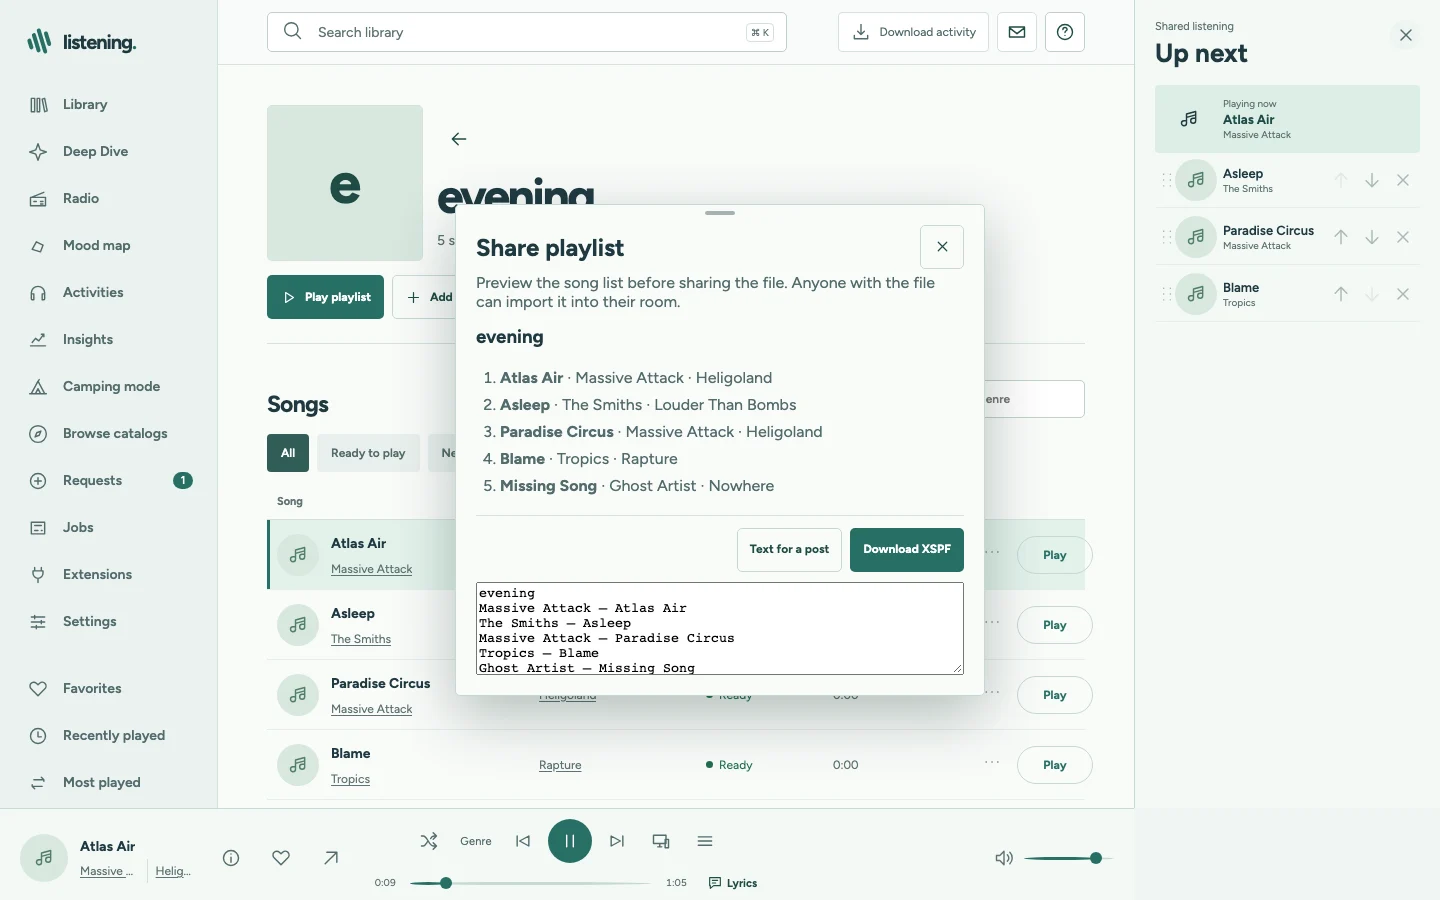
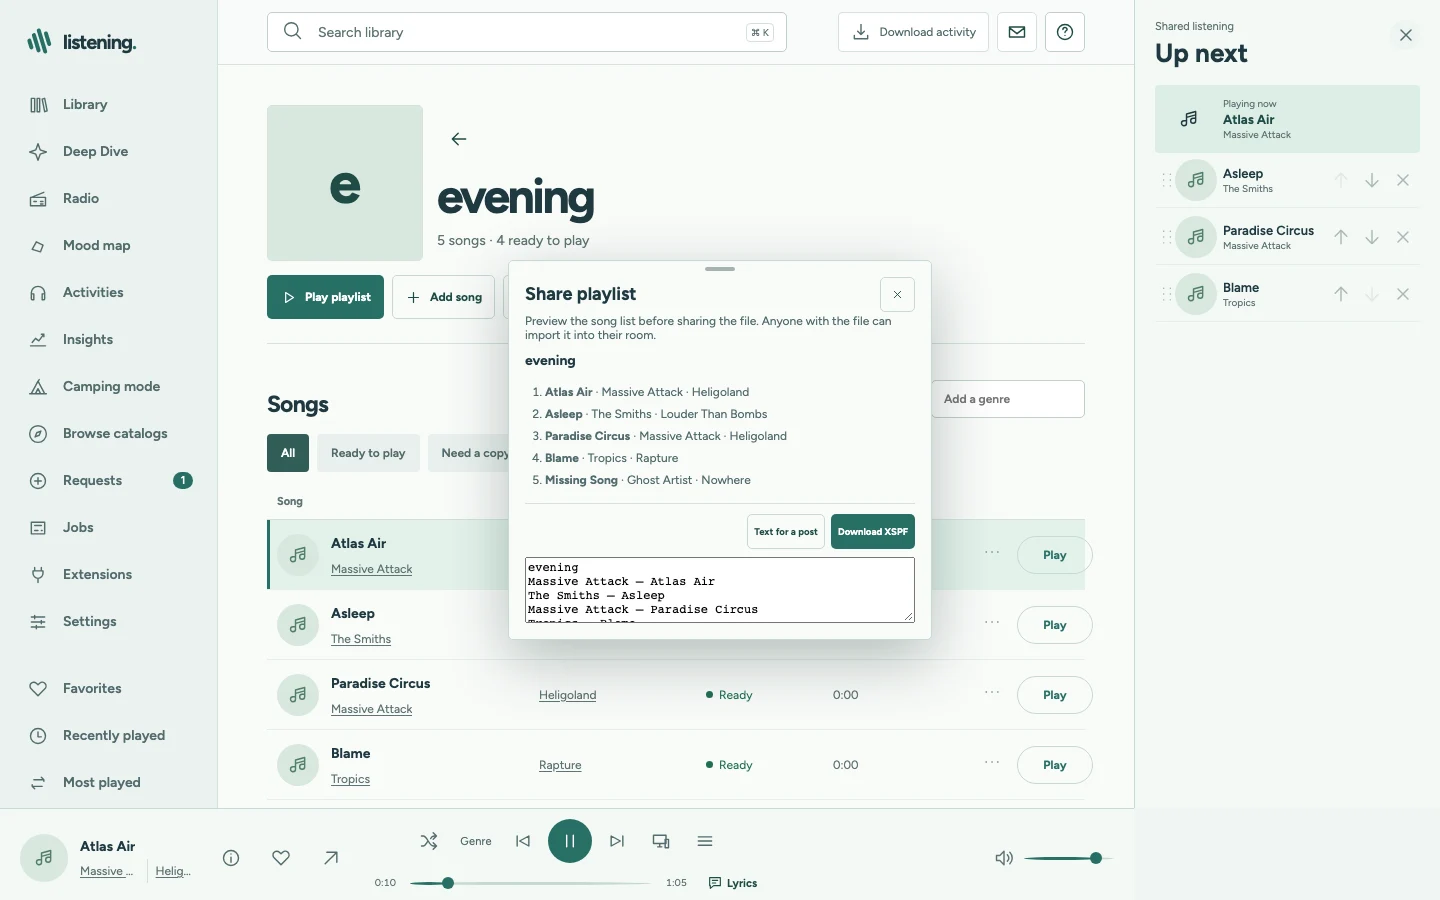
Reduce dialog sizes and tighten action spacing

Changed region(s): [[0.2812, 0.2178, 0.7188, 0.8089]]

diff --git a/frontend/react/src/styles.css b/frontend/react/src/styles.css
@@ -530,10 +530,9 @@ input[type=range] { height: 3px; accent-color: var(--accent); cursor: pointer; }
 .dialog-close { float: right; }
 
 .playlist-share-dialog {
-  width: min(530px, calc(100vw - 24px));
-  max-height: min(85dvh, 720px);
+  --dialog-width: 424px;
+  max-height: min(68dvh, 576px);
   overflow: auto;
-  padding: var(--space-9);
   border: 1px solid var(--line-strong);
   border-radius: var(--radius-lg);
   background: var(--panel);
@@ -543,15 +542,13 @@ input[type=range] { height: 3px; accent-color: var(--accent); cursor: pointer; }
 .playlist-share-tracks {
   max-height: 42dvh;
   overflow: auto;
-  padding-inline-start: var(--space-10);
+  padding-inline-start: var(--space-9);
   color: var(--muted);
 }
 .playlist-share-tracks li { padding-block: var(--space-2); }
 .playlist-share-dialog .primary-action { text-decoration: none; }
-.playlist-share-dialog [data-slot="dialog-title"], .playlist-share-dialog h3 { margin: 0; }
-.playlist-share-dialog [data-slot="dialog-description"] { margin: var(--space-2) 0 var(--space-7); color: var(--muted); }
-.playlist-share-dialog .format-dialog-header > button { width: 44px; padding: 0; }
-.playlist-share-dialog textarea { display: block; width: 100%; min-height: 7em; margin-top: var(--space-5); }
+.playlist-share-dialog h3 { margin: 0; font-size: var(--font-lg); }
+.playlist-share-dialog textarea { display: block; width: 100%; min-height: 5.5em; margin-top: var(--space-4); font-size: inherit; }
 
 .room-login {
   min-height: 100dvh;
@@ -1502,35 +1499,53 @@ input[type=range] { height: 3px; accent-color: var(--accent); cursor: pointer; }
 .lyrics-stage-line.is-current { opacity: 1; font-size: var(--font-lyrics-current); font-weight: var(--weight-heavy); }
 .lyrics-stage-note { margin: 0; font-size: var(--font-lg); opacity: .8; }
 
-.format-dialog { width: min(400px, calc(100vw - 28px)); padding: var(--space-9); background: var(--panel); border: 1px solid var(--line-strong); border-radius: var(--radius-lg); box-shadow: var(--shadow-dialog-md); }
-.format-dialog [data-slot="dialog-title"] { margin: 0; font-size: var(--font-4xl); font-weight: var(--weight-bold); overflow-wrap: anywhere; }
-.format-dialog > [data-slot="dialog-description"] { margin: var(--space-2) 0 var(--space-7); color: var(--muted); overflow-wrap: anywhere; }
+.format-dialog { --dialog-width: 320px; background: var(--panel); border: 1px solid var(--line-strong); border-radius: var(--radius-lg); box-shadow: var(--shadow-dialog-md); }
+:is(.format-dialog, .playlist-share-dialog) {
+  --dialog-control-size: 35px;
+  width: min(var(--dialog-width), calc((100vw - 28px) * .8));
+  padding: var(--space-8);
+  font-size: var(--font-md);
+}
+:is(.format-dialog, .playlist-share-dialog) [data-slot="dialog-title"] {
+  margin: 0; font-size: 18px; font-weight: var(--weight-bold); overflow-wrap: anywhere;
+}
+:is(.format-dialog, .playlist-share-dialog) > [data-slot="dialog-description"] {
+  margin: var(--space-1) 0 var(--space-5); color: var(--muted); overflow-wrap: anywhere;
+}
 .format-dialog-header { display: flex; align-items: center; gap: var(--space-4); }
 .format-dialog-header > button { flex: none; }
 :is(.format-dialog, .playlist-share-dialog) > .format-dialog-header { justify-content: space-between; }
-.format-dialog fieldset { margin: var(--space-6) 0; padding: 0; border: 0; }
-.format-dialog legend { margin-bottom: var(--space-3); color: var(--muted); }
-.format-dialog label { display: flex; align-items: center; gap: var(--space-5); min-height: 44px; cursor: pointer; }
+:is(.format-dialog, .playlist-share-dialog) > .format-dialog-header > button {
+  width: var(--dialog-control-size); min-width: var(--dialog-control-size);
+  height: var(--dialog-control-size); min-height: var(--dialog-control-size); padding: 0;
+}
+.format-dialog fieldset { margin: var(--space-5) 0; padding: 0; border: 0; }
+.format-dialog legend { margin-bottom: var(--space-2); color: var(--muted); }
+.format-dialog label { display: flex; align-items: center; gap: var(--space-4); min-height: var(--dialog-control-size); cursor: pointer; }
 .format-dialog input { accent-color: var(--accent); }
 .format-dialog .find-copy-sources { flex-wrap: nowrap; justify-content: space-between; font-size: var(--font-sm); }
 .dialog-actions {
-  display: flex; flex-wrap: wrap; justify-content: flex-end; gap: var(--space-4);
-  margin-block-start: var(--space-7); padding-block-start: var(--space-6); border-top: 1px solid var(--line);
+  display: flex; flex-wrap: wrap; justify-content: flex-end; gap: var(--space-3);
+  margin-block-start: var(--space-5); padding-block-start: var(--space-5); border-top: 1px solid var(--line);
 }
-.dialog-actions > .room-action { min-width: 0; text-align: center; }
-.copy-dialog { width: min(560px, calc(100vw - 28px)); }
+.copy-dialog { --dialog-width: 448px; }
 .copy-dialog > p[role] { margin: 0; }
 .copy-dialog > p[role="status"] { color: var(--muted); }
 .copy-dialog > p[role="alert"] { overflow-wrap: anywhere; }
 .copy-dialog .dialog-actions { display: grid; grid-auto-flow: column; grid-auto-columns: minmax(0, 1fr); }
-.copy-dialog .dialog-actions > .room-action { padding-inline: var(--space-4); }
+.copy-dialog .copy-picker-list .radio-result { min-height: 44px; padding-block: var(--space-4); }
+.copy-dialog .copy-picker-list strong { font-size: var(--font-sm); }
+.copy-dialog .copy-picker-list small { font-size: calc(var(--font-sm) * .8); }
+.copy-dialog .copy-picker-action .room-icon { width: 13px; height: 13px; }
 .copy-dialog [data-stop-search]:enabled { color: var(--danger); }
 @media (max-width: 580px) {
   .copy-dialog .dialog-actions { grid-auto-flow: row; grid-template-columns: repeat(2, minmax(0, 1fr)); }
 }
 @media (max-width: 420px) {
-  .format-dialog, .playlist-share-dialog { padding-inline: var(--space-8); }
   .dialog-actions { display: grid; grid-template-columns: repeat(2, minmax(0, 1fr)); }
+}
+@media (any-pointer: coarse), (max-width: 650px) {
+  :is(.format-dialog, .playlist-share-dialog) { --dialog-control-size: 44px; }
 }
 
 .nav-core, .nav-overflow { display: contents; }
@@ -2831,6 +2846,13 @@ a.room-action.connections-source, .connections-state button, .song-fallback-link
   font: inherit; font-size: var(--font-md); font-weight: var(--weight-bold); line-height: 1.25;
 }
 .room-action .room-icon, .room-select .room-icon { width: 17px; height: 17px; }
+.dialog-actions > .room-action:is(.primary-action, .quiet-button) {
+  min-width: 0; min-height: var(--dialog-control-size); gap: var(--space-3);
+  padding: var(--space-3); font-size: calc(var(--font-md) * .8); text-align: center;
+}
+:is(.dialog-actions, .format-dialog-header) > button .room-icon, .dialog-actions .room-action .room-icon {
+  width: 13px; height: 13px; flex: none;
+}
 .room-action[role="checkbox"][aria-checked="true"] { background: var(--accent-tint); border-color: var(--accent); }
 .room-select { display: grid; min-width: 0; gap: var(--space-2); }
 .room-select [data-slot="select-label"], .composer-form label {
@@ -3400,7 +3422,7 @@ a.room-action.connections-source, .connections-state button, .song-fallback-link
 .extension-detail-row:not([hidden]) td { padding-block: 0 var(--space-5); }
 .extension-config { display: grid; gap: var(--space-6); padding: var(--space-6); border: 1px solid var(--line); border-radius: var(--radius-md); background: var(--card); }
 .extension-config .settings-note { margin: 0; }
-.extension-update-dialog { width: min(480px, calc(100vw - 28px)); }
+.extension-update-dialog { --dialog-width: 384px; }
 .extension-update-changes { margin: var(--space-6) 0; }
 .extension-update-changes > div { padding-block: var(--space-3); border-block-start: 1px solid var(--line); }
 .extension-update-changes dt { font-weight: var(--weight-bold); overflow-wrap: anywhere; }
@@ -3447,7 +3469,7 @@ a.room-action.connections-source, .connections-state button, .song-fallback-link
 .extensions-stack .settings-actions .room-icon { width: 17px; height: 17px; }
 .extensions-stack :is(a, button, summary):focus-visible { outline: 2px solid var(--accent); outline-offset: 2px; }
 @media (pointer: coarse) { .extensions-stack .settings-actions .quiet-button { min-height: 44px; } }
-.format-dialog { max-height: calc(100dvh - 28px); overflow: auto; }
+.format-dialog { max-height: calc((100dvh - 28px) * .8); overflow: auto; }
 
 .activity-mixes {
   display: grid;

diff --git a/clients/android/app/src/main/java/music/listening/room/DiscoveryPick.kt b/clients/android/app/src/main/java/music/listening/room/DiscoveryPick.kt
@@ -3,6 +3,7 @@ package music.listening.room
 import android.app.Activity
 import android.app.Dialog
 import android.content.res.ColorStateList
+import android.graphics.drawable.InsetDrawable
 import android.os.Build
 import android.view.KeyEvent
 import android.view.View
@@ -178,26 +179,35 @@ internal fun Activity.chooseDiscoveryFormat(row: JSONObject, room: Room, confirm
     )
     val ui = RoomUi(this)
     val style = SongDetailsStyle(ui)
-    val content = style.column()
+    val content = ui.column().apply { setPadding(ui.dp(12), ui.dp(9), ui.dp(12), ui.dp(6)) }
     val formatPanel = ui.column()
     val copyPanel = ui.column()
     val recordingsPanel = ui.column(8)
     var saving = false
-    val feedback = ui.label("", 14f, ui.secondary).apply {
+    val feedback = ui.label("", 11f, ui.secondary).apply {
         visibility = View.GONE
         accessibilityLiveRegion = View.ACCESSIBILITY_LIVE_REGION_POLITE
     }
     val openingTitle = if (row.needsCopyReview()) "Choose a copy" else "Choose format"
-    val dialogHeading = ui.heading(openingTitle, 23f)
-    val dialog = style.dialog(this, openingTitle, ScrollView(this).apply { addView(content) },
+    val dialogHeading = ui.heading(openingTitle, 18f)
+    val body = object : ScrollView(this) {
+        override fun onMeasure(widthMeasureSpec: Int, heightMeasureSpec: Int) {
+            val height = if (MeasureSpec.getMode(heightMeasureSpec) == MeasureSpec.AT_MOST) {
+                val limit = (MeasureSpec.getSize(heightMeasureSpec) * .76f).toInt()
+                MeasureSpec.makeMeasureSpec(limit, MeasureSpec.AT_MOST)
+            } else heightMeasureSpec
+            super.onMeasure(widthMeasureSpec, height)
+        }
+    }.apply { addView(content) }
+    val dialog = style.dialog(this, openingTitle, body,
         artist = listOf(row.optString("title"), row.optString("artist")).filter(String::isNotBlank).joinToString(" · "),
-        titleView = dialogHeading, canDismiss = { !saving })
+        titleView = dialogHeading, compact = true, canDismiss = { !saving })
     val choices = RadioGroup(this)
     val ids = options.map { View.generateViewId() }
     for ((index, option) in options.withIndex()) choices.addView(RadioButton(this).apply {
         id = ids[index]
         text = option.second
-        textSize = 16f
+        textSize = 12f
         setTextColor(ui.ink)
         buttonTintList = ColorStateList.valueOf(ui.accent)
         minimumHeight = ui.dp(48)
@@ -258,7 +268,7 @@ internal fun Activity.chooseDiscoveryFormat(row: JSONObject, room: Room, confirm
         if (saving) return
         val ticket = ++recordingListing
         recordingsPanel.removeAllViews()
-        recordingsPanel.addView(ui.iconButton("Back to copies", Mark.BACK) { backToCopies() })
+        recordingsPanel.addView(ui.iconButton("Back to copies", Mark.BACK, compact = true) { backToCopies() })
         showPanel("Other recordings", recordingsPanel)
         message("Looking for versions…")
         Thread {
@@ -274,7 +284,7 @@ internal fun Activity.chooseDiscoveryFormat(row: JSONObject, room: Room, confirm
                     }
                 }.onFailure {
                     message("Couldn’t load versions.")
-                    recordingsPanel.addView(ui.iconButton("Try again", Mark.REFRESH) { showRecordings() })
+                    recordingsPanel.addView(ui.iconButton("Try again", Mark.REFRESH, compact = true) { showRecordings() })
                 }
             }
         }.start()
@@ -310,7 +320,12 @@ internal fun Activity.chooseDiscoveryFormat(row: JSONObject, room: Room, confirm
                 for (pair in actions.chunked(2)) {
                     addView(row(6).apply {
                         isBaselineAligned = false
-                        for (action in pair) addView(action, LinearLayout.LayoutParams(0, -1, 1f))
+                        for (action in pair) {
+                            action.textSize = 12f
+                            action.background = InsetDrawable(action.background, 0, dp(5), 0, dp(5))
+                            action.setPadding(dp(6), dp(4), dp(6), dp(4))
+                            addView(action, LinearLayout.LayoutParams(0, -1, 1f))
+                        }
                     }, LinearLayout.LayoutParams(-1, -2))
                 }
             }, gap = 8)
@@ -337,12 +352,13 @@ internal fun Activity.chooseDiscoveryFormat(row: JSONObject, room: Room, confirm
                             ).filter(String::isNotBlank).joinToString(" · ")
                             copyPanel.section(ui.row().apply {
                                 addView(column().apply {
-                                    addView(heading(name, 15f))
-                                    if (detail.isNotEmpty()) addView(label(detail, 13f, secondary))
-                                    if (failure.isNotEmpty()) addView(label(failure, 13f, ink))
+                                    addView(heading(name, 12f))
+                                    if (detail.isNotEmpty()) addView(label(detail, 10f, secondary))
+                                    if (failure.isNotEmpty()) addView(label(failure, 10f, ink))
                                 }, LinearLayout.LayoutParams(0, -2, 1f))
                                 val action = if (failure.isEmpty()) "Download" else "Retry"
-                                addView(iconButton("$action $name", if (failure.isEmpty()) Mark.DOWNLOAD else Mark.REFRESH) {
+                                val mark = if (failure.isEmpty()) Mark.DOWNLOAD else Mark.REFRESH
+                                addView(iconButton("$action $name", mark, compact = true) {
                                     submit("Queueing copy…") { room.confirmFormat(row, format, match.getString("key")) }
                                 })
                             }, gap = 8)
@@ -357,9 +373,9 @@ internal fun Activity.chooseDiscoveryFormat(row: JSONObject, room: Room, confirm
     with(ui) {
         formatPanel.section(choices)
         formatPanel.section(actionStrip(listOf(
-            iconButton("View extensions", Mark.EXTENSIONS) { showRoomExtensions(room, backLabel = "Back to format") },
-            iconButton("Browse copies", Mark.BROWSE) { showCopies() },
-            iconButton("Confirm and search", Mark.SEARCH) {
+            iconButton("View extensions", Mark.EXTENSIONS, compact = true) { showRoomExtensions(room, backLabel = "Back to format") },
+            iconButton("Browse copies", Mark.BROWSE, compact = true) { showCopies() },
+            iconButton("Confirm and search", Mark.SEARCH, compact = true) {
                 val format = selectedFormat()
                 submit("Starting search…") { room.confirmFormat(row, format) }
             },
@@ -369,6 +385,7 @@ internal fun Activity.chooseDiscoveryFormat(row: JSONObject, room: Room, confirm
         key == KeyEvent.KEYCODE_BACK && event.action == KeyEvent.ACTION_UP && handleBack()
     }
     dialog.show()
+    dialog.window?.setLayout((resources.displayMetrics.widthPixels * .76f).toInt(), -2)
     if (Build.VERSION.SDK_INT >= Build.VERSION_CODES.TIRAMISU) {
         val dispatcher = dialog.onBackInvokedDispatcher
         val callback = OnBackInvokedCallback { if (!handleBack()) dialog.cancel() }

diff --git a/clients/android/app/src/main/java/music/listening/room/RoomUi.kt b/clients/android/app/src/main/java/music/listening/room/RoomUi.kt
@@ -7,6 +7,7 @@ import android.graphics.Color
 import android.graphics.Paint
 import android.graphics.Typeface
 import android.graphics.drawable.GradientDrawable
+import android.graphics.drawable.InsetDrawable
 import android.graphics.drawable.StateListDrawable
 import android.os.Build
 import android.view.Gravity
@@ -128,11 +129,13 @@ internal class RoomUi(private val context: Context) {
         setBounds(0, 0, intrinsicWidth, intrinsicHeight)
     }
 
-    fun iconButton(name: String, glyph: Mark, solid: Boolean = false, outlined: Boolean = true, action: () -> Unit) =
+    fun iconButton(name: String, glyph: Mark, solid: Boolean = false, outlined: Boolean = true,
+                   compact: Boolean = false, action: () -> Unit) =
         ImageButton(context).apply {
             contentDescription = name
             tooltipText = name
-            setImageDrawable(mark(glyph, if (solid) 25 else 23, if (solid) onAccent else accentInk))
+            val size = if (solid) 25 else 23
+            setImageDrawable(mark(glyph, if (compact) size * 4 / 5 else size, if (solid) onAccent else accentInk))
             scaleType = ImageView.ScaleType.CENTER
             val disabled = intArrayOf(-android.R.attr.state_enabled)
             val selected = intArrayOf(android.R.attr.state_selected)
@@ -149,13 +152,14 @@ internal class RoomUi(private val context: Context) {
                     setStroke(dp(if (outline) 2 else 1), if (outline) ink else controlEdge)
                 }
             }
-            background = StateListDrawable().apply {
+            val buttonBackground = StateListDrawable().apply {
                 addState(disabled, disc(fog))
                 addState(down, disc(if (solid) secondary else pressed, true))
                 addState(focus, disc(if (solid) secondary else fog, true))
                 addState(selected, disc(accent, true))
                 addState(intArrayOf(), disc(rest))
             }
+            background = if (compact) InsetDrawable(buttonBackground, dp(5)) else buttonBackground
             minimumWidth = dp(48); minimumHeight = dp(48)
             setOnClickListener { action() }
         }

diff --git a/clients/android/app/src/main/java/music/listening/room/SongDetailsStyle.kt b/clients/android/app/src/main/java/music/listening/room/SongDetailsStyle.kt
@@ -81,13 +81,13 @@ internal class SongDetailsStyle(private val ui: RoomUi) {
 
     fun dialog(activity: Activity, title: String, body: View, artist: String = "", closeLabel: String = "Close",
                backLabel: String? = null, titleView: TextView = ui.heading(title, 23f),
-               canDismiss: () -> Boolean = { true }): AlertDialog {
+               compact: Boolean = false, canDismiss: () -> Boolean = { true }): AlertDialog {
         val header = ui.row().apply {
-            val padding = ui.dp(16)
-            setPadding(padding, padding, padding, ui.dp(12))
+            val padding = ui.dp(if (compact) 12 else 16)
+            setPadding(padding, padding, padding, ui.dp(if (compact) 9 else 12))
             addView(ui.column().apply {
                 addView(titleView)
-                if (artist.isNotBlank()) addView(ui.label(artist, color = ui.secondary))
+                if (artist.isNotBlank()) addView(ui.label(artist, if (compact) 12f else 16f, ui.secondary))
             }, LinearLayout.LayoutParams(0, -2, 1f).apply { marginEnd = ui.dp(8) })
         }
         val content = ui.column().apply {
@@ -98,7 +98,8 @@ internal class SongDetailsStyle(private val ui: RoomUi) {
             addView(body, LinearLayout.LayoutParams(-1, -2))
         }
         val dialog = AlertDialog.Builder(activity).setView(content).create()
-        val dismissal = ui.iconButton(backLabel ?: closeLabel, if (backLabel == null) Mark.CLOSE else Mark.BACK) {
+        val dismissalMark = if (backLabel == null) Mark.CLOSE else Mark.BACK
+        val dismissal = ui.iconButton(backLabel ?: closeLabel, dismissalMark, compact = compact) {
             if (canDismiss()) dialog.dismiss()
         }
         val size = ui.dp(48)

diff --git a/scripts/verify_ui.py b/scripts/verify_ui.py
@@ -3754,7 +3754,12 @@ def run_browser(server, output):
                     assert len({round(box["x"]) for box in bounds}) == columns, "Copy actions must align in columns"
                     assert len({round(box["y"]) for box in bounds}) == len(actions) // columns
                     assert max(box["width"] for box in bounds) - min(box["width"] for box in bounds) <= 1
-                    assert all(box["height"] >= 44 and box["x"] + box["width"] <= width for box in bounds)
+                    touch = width < 580
+                    assert all(box["height"] >= (44 if touch else 35) and box["x"] + box["width"] <= width
+                               for box in bounds)
+                    assert stop_picker.bounding_box()["width"] <= min(448, (width - 28) * .8) + 1
+                    if not touch:
+                        assert all(box["height"] <= 35 for box in bounds)
                     if width == 390:
                         page.screenshot(path=str(output / "13-copy-review-phone.png"), animations="disabled")
                 page.screenshot(path=str(output / "13-copy-review.png"), animations="disabled")
